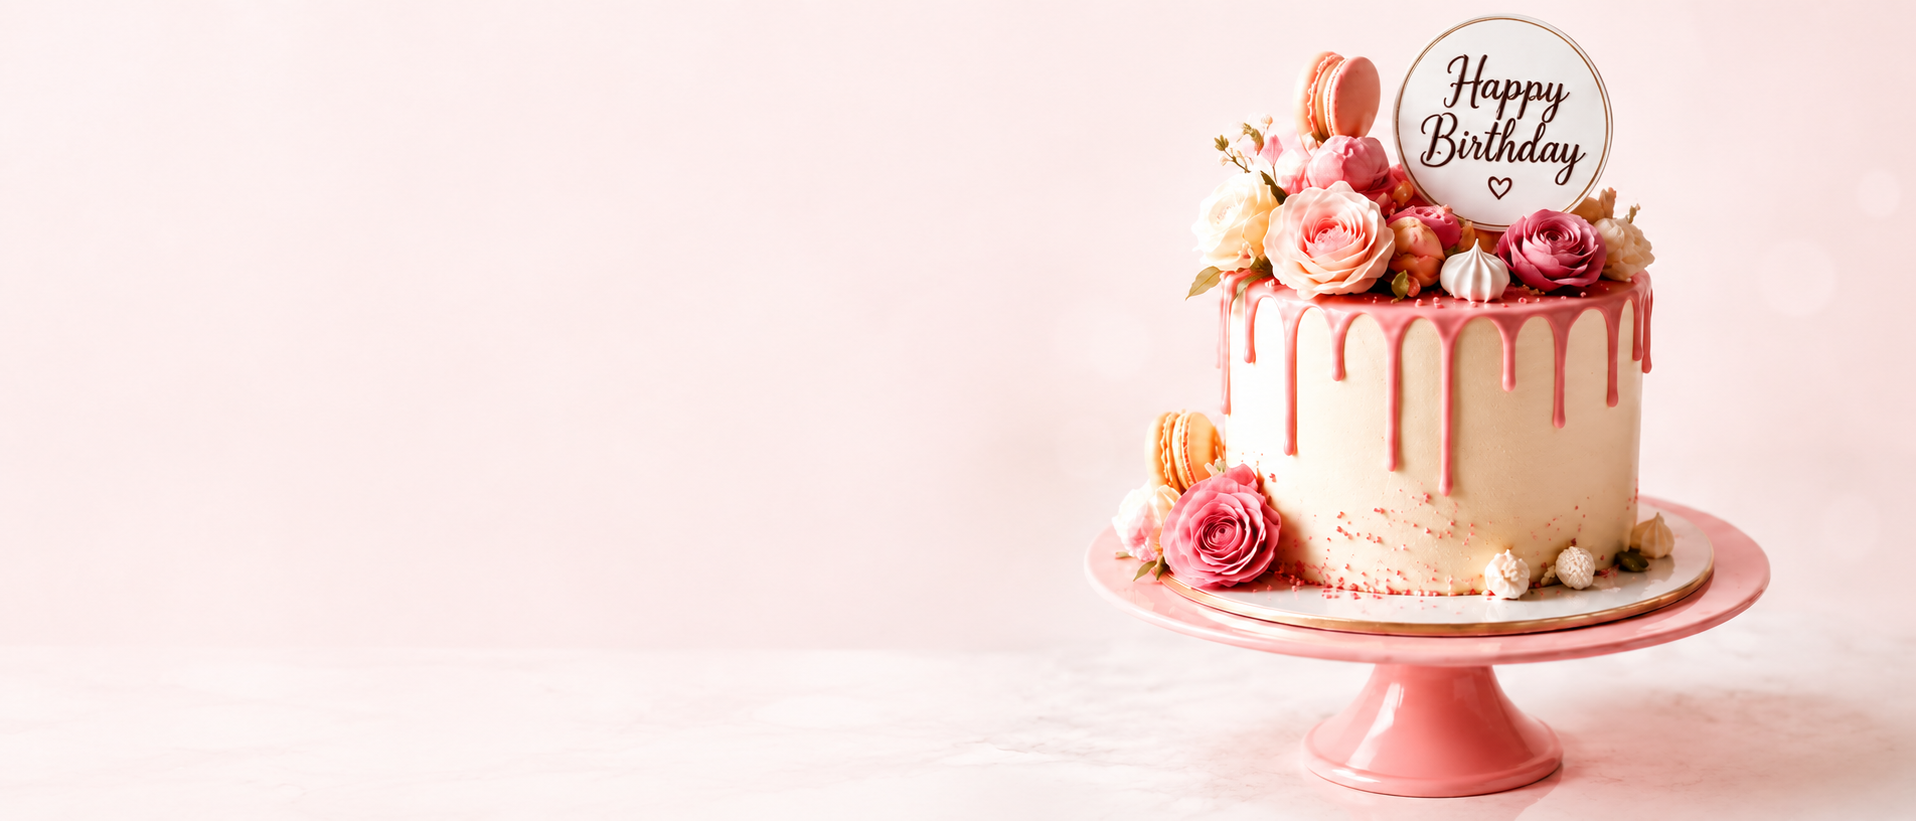
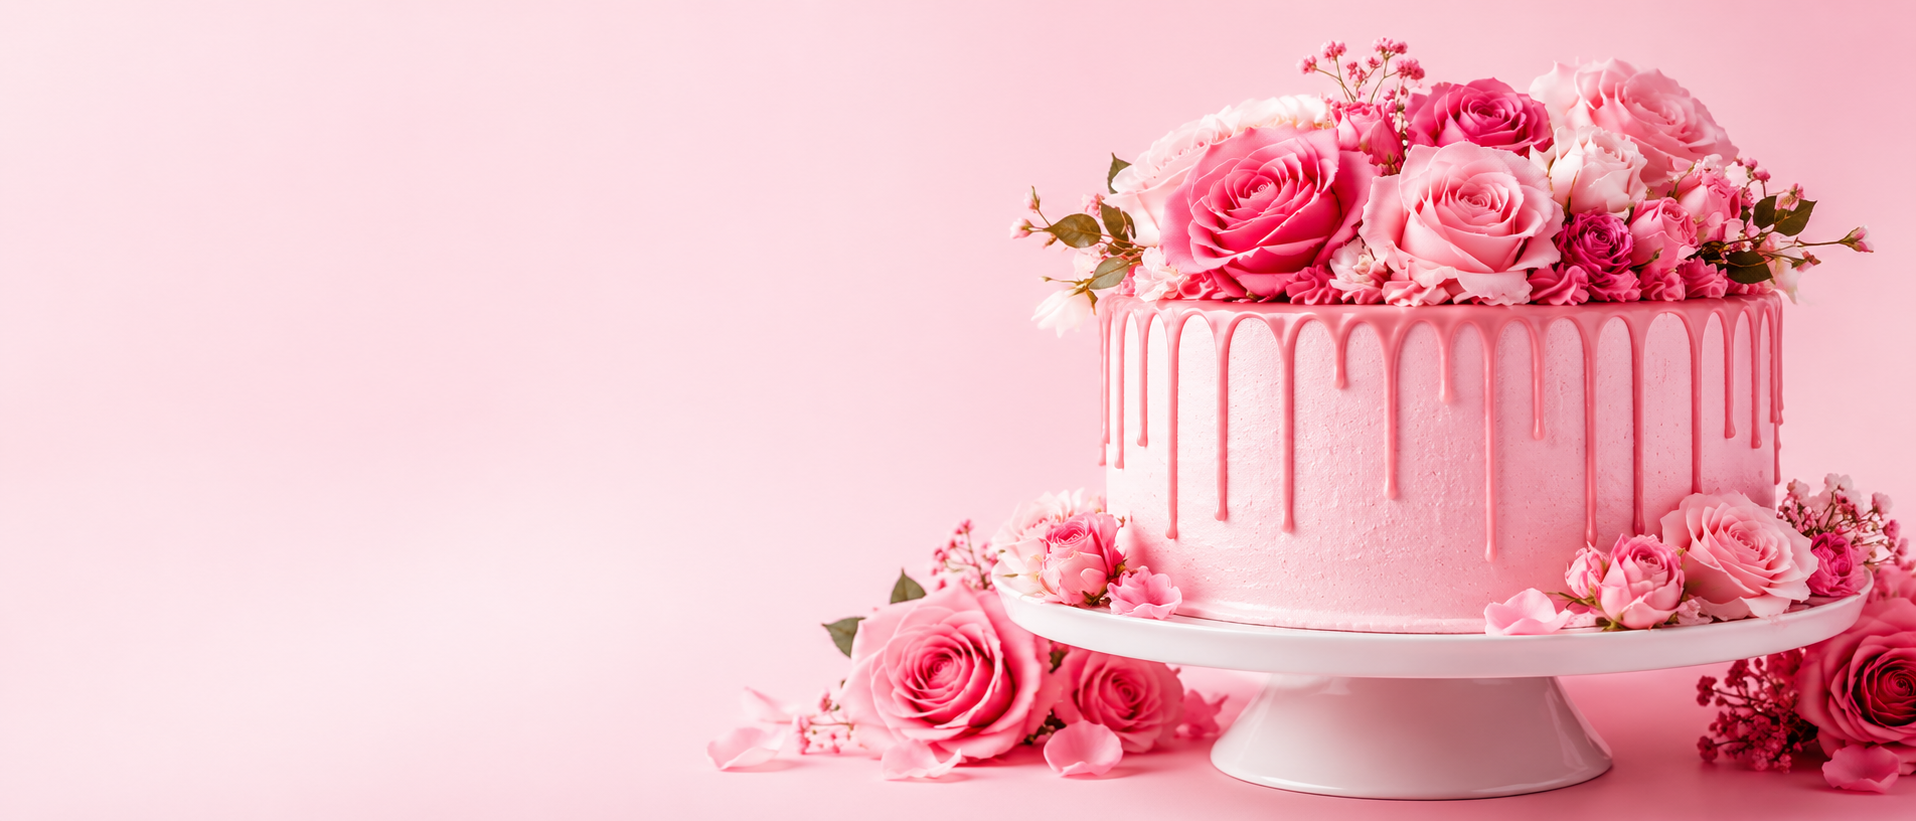
style: update navbar and homepage imagery

diff --git a/frontend/src/components/animation/CustomCakeBuilderAnimated.tsx b/frontend/src/components/animation/CustomCakeBuilderAnimated.tsx
@@ -18,54 +18,16 @@ function HeartIcon({ className }: { className?: string }) {
   );
 }
 
-function CustomCakeHeading({
-  id,
-  compact = false,
-}: {
-  id?: string;
-  compact?: boolean;
-}) {
-  if (compact) {
-    return (
-      <>
-        <WordReveal
-          text={customCakeCopy.subtitle}
-          as="p"
-          delay={0}
-          className="mb-2 font-script text-[0.6875rem] font-semibold leading-snug text-brand-button-hover min-[375px]:mb-2.5 min-[375px]:text-xs min-[390px]:text-sm"
-          wordClassName="font-script"
-        />
-        <h2
-          id={id}
-          className="font-display text-[0.625rem] font-bold leading-[1.25] tracking-tight text-brand-brown sm:text-[0.6875rem] min-[390px]:text-xs"
-        >
-          <WordReveal
-            text={customCakeCopy.headingLine1}
-            as="span"
-            delay={0.1}
-            className="block w-full"
-          />
-          <span className="mt-0.5 flex items-center gap-0.5 text-brand-primary">
-            <WordReveal
-              text={customCakeCopy.headingLine2}
-              as="span"
-              delay={0.22}
-              className="inline-flex"
-              wordClassName="text-brand-primary"
-            />
-            <HeartIcon className="h-2.5 w-2.5 shrink-0 min-[390px]:h-3 min-[390px]:w-3" />
-          </span>
-        </h2>
-      </>
-    );
-  }
-
+function CustomCakeHeading({ id }: { id?: string }) {
   return (
     <>
       <Reveal direction="left" delay={0}>
         <SectionEyebrow align="start">{customCakeCopy.subtitle}</SectionEyebrow>
       </Reveal>
-      <h2 className="mt-2 font-display text-3xl font-bold leading-tight text-brand-brown">
+      <h2
+        id={id}
+        className="mt-2 font-display text-2xl font-bold leading-tight tracking-tight text-brand-brown sm:text-3xl lg:text-[2.125rem]"
+      >
         <WordReveal
           text={customCakeCopy.headingLine1}
           as="span"
@@ -80,7 +42,7 @@ function CustomCakeHeading({
             className="inline-flex"
             wordClassName="text-brand-primary"
           />
-          <HeartIcon className="h-4 w-4" />
+          <HeartIcon className="h-4 w-4 shrink-0 sm:h-[1.125rem] sm:w-[1.125rem]" />
         </span>
       </h2>
     </>
@@ -89,81 +51,59 @@ function CustomCakeHeading({
 
 export function CustomCakeBuilderAnimated() {
   return (
-    <>
-      <div className="section-container relative z-10 px-2.5 py-8 sm:px-4 sm:py-9 lg:hidden">
-        <div
-          className={cn(
-            "grid w-full items-center gap-y-0",
-            "grid-cols-[minmax(0,0.88fr)_minmax(5.25rem,7rem)_minmax(0,0.88fr)] gap-x-2",
-            "min-[375px]:grid-cols-[minmax(0,0.9fr)_minmax(6.25rem,8rem)_minmax(0,0.9fr)] min-[375px]:gap-x-3",
-            "min-[390px]:grid-cols-[minmax(0,0.9fr)_minmax(6.75rem,8.25rem)_minmax(0,0.9fr)] min-[390px]:gap-x-4",
-            "min-[430px]:grid-cols-[minmax(0,0.92fr)_minmax(7rem,8.5rem)_minmax(0,0.92fr)]",
-          )}
-        >
-          <Reveal direction="left" className="relative min-w-0 justify-self-start self-center pt-5 text-left min-[375px]:pt-6 min-[390px]:pt-6">
-            <CustomCakeHeading id="custom-cakes-heading" compact />
-            <Reveal direction="up" delay={0.35}>
-              <Button
-                href={customCakeCopy.ctaHref}
-                size="sm"
-                className="mt-2.5 h-[1.625rem] min-w-0 max-w-full whitespace-nowrap px-2.5 text-[0.5625rem] shadow-md shadow-brand-primary/25 sm:mt-3 sm:px-3 min-[390px]:h-7 min-[390px]:text-[0.625rem]"
-              >
-                {customCakeCopy.ctaLabel}
-              </Button>
-            </Reveal>
+    <div className="section-container relative z-10 py-10 sm:py-12 lg:py-16 xl:py-20">
+      <div
+        className={cn(
+          "grid w-full items-center gap-8",
+          "grid-cols-1",
+          "md:grid-cols-[minmax(0,1.05fr)_minmax(0,0.95fr)] md:gap-10",
+          "lg:gap-12 xl:gap-16",
+        )}
+      >
+        {/* Text block — left on tablet/desktop, first on mobile */}
+        <div className="relative z-10 min-w-0 order-1">
+          <CustomCakeHeading id="custom-cakes-heading" />
+
+          <Reveal direction="up" delay={0.3}>
+            <p className="mt-3 max-w-md text-sm leading-relaxed text-brand-muted sm:mt-3.5 sm:text-[0.9375rem] lg:text-base">
+              {customCakeCopy.description}
+            </p>
           </Reveal>
 
-          <Reveal delay={0.2} direction="scale" className="relative z-[5] flex items-end justify-center self-center px-0">
-            <SafeImage
-              src={siteImages.customCakeMobile}
-              fallbackSrc={siteImages.customCakeFallback}
-              alt=""
-              width={220}
-              height={300}
-              className="h-[9.75rem] w-auto max-w-[140%] object-contain object-bottom min-[375px]:h-[11.25rem] min-[390px]:h-[11.75rem] min-[390px]:max-w-[154%] min-[430px]:h-[12.25rem] min-[430px]:max-w-[154%]"
-              sizes="(max-width: 1023px) 220px"
-            />
-          </Reveal>
-
-          <Reveal direction="right" delay={0.15} className="justify-self-end self-center pt-4 min-[375px]:pt-5">
-            <AnimatedCustomCakeSteps compact />
-          </Reveal>
-        </div>
-      </div>
-
-      <div className="section-container relative z-10 hidden py-10 sm:py-12 lg:flex lg:min-h-[42rem] lg:items-center lg:py-14 xl:min-h-[44rem]">
-        <div
-          className={cn(
-            "grid w-full items-start gap-8",
-            "lg:grid-cols-[minmax(0,18rem)_minmax(0,1fr)_minmax(0,16rem)]",
-            "xl:grid-cols-[minmax(0,20rem)_minmax(0,1fr)_minmax(0,17rem)] xl:gap-10",
-          )}
-        >
-          <Reveal direction="left" className="relative z-10 min-w-0 self-start">
-            <CustomCakeHeading />
-            <Reveal direction="up" delay={0.35}>
-              <p className="mt-3 max-w-xs text-sm leading-relaxed text-brand-muted">
-                {customCakeCopy.description}
-              </p>
-            </Reveal>
-            <Reveal direction="up" delay={0.5}>
-              <Button
-                href={customCakeCopy.ctaHref}
-                size="sm"
-                className="mt-5 h-9 w-fit text-sm shadow-md shadow-brand-primary/25"
-              >
-                {customCakeCopy.ctaLabel}
-              </Button>
-            </Reveal>
-          </Reveal>
-
-          <div className="hidden lg:block" aria-hidden />
-
-          <Reveal direction="right" delay={0.15} className="relative z-10 justify-self-end">
+          <Reveal direction="up" delay={0.4} className="mt-5 sm:mt-6">
             <AnimatedCustomCakeSteps />
           </Reveal>
+
+          <Reveal direction="up" delay={0.55}>
+            <Button
+              href={customCakeCopy.ctaHref}
+              size="sm"
+              className="mt-6 h-9 w-fit text-sm shadow-md shadow-brand-primary/25 sm:mt-7 sm:h-10 sm:px-5"
+            >
+              {customCakeCopy.ctaLabel}
+            </Button>
+          </Reveal>
         </div>
+
+        {/* Image — right on tablet/desktop, below text on mobile */}
+        <Reveal
+          delay={0.2}
+          direction="scale"
+          className="relative z-[5] order-2 flex w-full items-center justify-center md:justify-end"
+        >
+          <div className="relative w-full max-w-[22rem] sm:max-w-[26rem] md:max-w-none lg:max-w-[32rem]">
+            <SafeImage
+              src={siteImages.customCake}
+              fallbackSrc={siteImages.customCakeFallback}
+              alt="Custom cake design preview"
+              width={640}
+              height={720}
+              className="mx-auto h-auto w-full object-contain object-center drop-shadow-[0_18px_40px_rgba(231,84,128,0.14)]"
+              sizes="(max-width: 767px) 90vw, (max-width: 1023px) 45vw, 512px"
+            />
+          </div>
+        </Reveal>
       </div>
-    </>
+    </div>
   );
 }

diff --git a/frontend/src/components/layout/Header.tsx b/frontend/src/components/layout/Header.tsx
@@ -49,26 +49,19 @@ export function Header() {
         <div className="section-container flex min-w-0 items-center justify-between gap-2 py-2.5 sm:gap-3 sm:py-3">
           <Link
             href="/"
-            className="group flex min-w-0 shrink-0 items-center gap-2 sm:gap-2.5"
+            className="group flex min-w-0 shrink-0 items-center"
             onClick={closeMenu}
+            aria-label={`${siteConfig.name} home`}
           >
-            <span className="relative h-9 w-9 shrink-0 overflow-hidden rounded-full border border-brand-border/80 bg-brand-pink-lighter shadow-sm sm:h-10 sm:w-10">
-              <Image
-                src={siteImages.logo}
-                alt=""
-                width={40}
-                height={40}
-                className="h-full w-full object-cover"
-              />
-            </span>
-            <span className="min-w-0">
-              <span className="block truncate font-display text-base font-bold tracking-tight text-brand-primary sm:text-lg lg:text-xl">
-                {siteConfig.name}
-              </span>
-              <span className="mt-0.5 hidden truncate text-[0.6rem] font-medium uppercase tracking-[0.16em] text-brand-muted min-[380px]:block sm:text-xs">
-                {siteConfig.tagline}
-              </span>
-            </span>
+            <Image
+              src={siteImages.logo}
+              alt={siteConfig.name}
+              width={225}
+              height={225}
+              unoptimized
+              priority
+              className="h-9 w-auto max-w-[9.5rem] object-contain object-left sm:h-10 sm:max-w-[11rem] lg:h-11 lg:max-w-[12rem]"
+            />
           </Link>
 
           <nav

diff --git a/frontend/src/components/sections/CustomCakeBuilder.tsx b/frontend/src/components/sections/CustomCakeBuilder.tsx
@@ -1,25 +1,12 @@
 import { CustomCakeBuilderAnimated } from "@/components/animation/CustomCakeBuilderAnimated";
-import { SafeImage } from "@/components/ui/SafeImage";
-import { siteImages } from "@/lib/images";
 
 export function CustomCakeBuilder() {
   return (
     <section
       id="custom-cakes"
-      className="section-anchor relative overflow-hidden bg-gradient-to-br from-[#FFF1F4] via-[#FCE8EC] to-[#FFF8F0] lg:min-h-[42rem] lg:bg-transparent xl:min-h-[44rem]"
+      className="section-anchor relative overflow-hidden bg-[#FFF8F9]"
       aria-labelledby="custom-cakes-heading"
     >
-      <div className="pointer-events-none absolute inset-0 hidden lg:block" aria-hidden>
-        <SafeImage
-          src={siteImages.customCake}
-          fallbackSrc={siteImages.customCakeFallback}
-          alt=""
-          fill
-          sizes="100vw"
-          className="h-full w-full object-cover object-center"
-        />
-      </div>
-
       <CustomCakeBuilderAnimated />
     </section>
   );

diff --git a/frontend/src/lib/images.ts b/frontend/src/lib/images.ts
@@ -2,11 +2,11 @@
 export const siteImages = {
   hero: "/images/real/hero-cake.png",
   heroMobile: "/images/real/hero-mobile.png",
-  heroMobileFallback: "/images/real/hero-mobile.jpg",
+  heroMobileFallback: "/images/real/hero-cake.png",
   heroFallback: "/images/real/hero-cake.png",
-  logo: "/images/real/logo.png",
+  logo: "/images/real/logo.svg",
   customCake: "/images/real/custom-cake.png",
-  customCakeMobile: "/images/real/custom-cake-mobile.png",
+  customCakeMobile: "/images/real/custom-cake.png",
   customCakeFallback: "/images/real/custom-cake.jpg",
   categories: {
     birthday: "/images/real/birthday-cake.jpg",

diff --git a/frontend/src/components/animation/AnimatedCustomCakeSteps.tsx b/frontend/src/components/animation/AnimatedCustomCakeSteps.tsx
@@ -58,7 +58,7 @@ export function AnimatedCustomCakeSteps({
             >
               {step.title}
             </h3>
-            <p className="mt-0.5 hidden text-xs leading-snug text-brand-muted lg:block">
+            <p className="mt-0.5 text-[0.6875rem] leading-snug text-brand-muted sm:text-xs lg:text-xs">
               {step.description}
             </p>
           </div>
